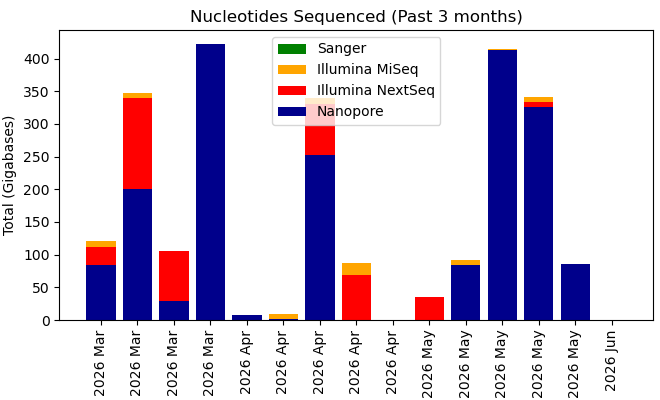
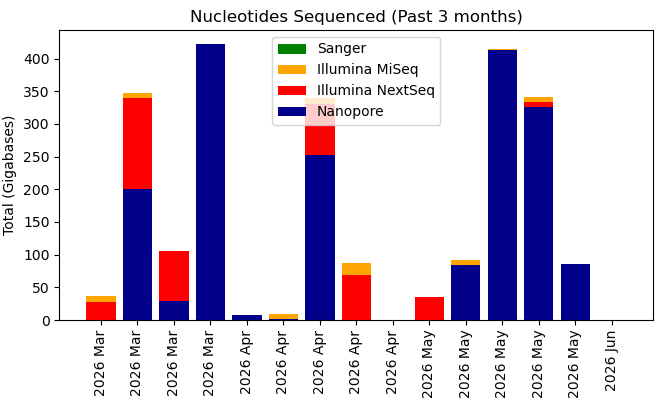
Your commit message here

Changed region(s): [[0.1212, 0.6, 0.1818, 0.81]]

diff --git a/krona/cgs.html b/krona/cgs.html
@@ -52,8 +52,8 @@ body {
   flex-direction: column;
 }
 </style>
-<H1>Genomics Facility Status: 07:00:09, 02/06/2026</H1>
-<marquee behavior="scroll" scrollamount="20" direction="left" bgcolor="lightgrey">GCCTGCAACGTACCTTCAAGAAGTCCTTTACCAGCTTTAGCCATAGCACCAGAAACAAAACTAGGGACGGCCTCATCAGGGTTAGGAACATTAGAGCCTTGAATGGCAGATTTAATACCAGCATCACCCATGCCTACAGTATTGTTATCGGTAGCAAGCACATCACCTTGAATGCCACCGGAGGCGGCTTTTTGACCGCCTCCAAACAATTTAGACATGGCGCCACCAGCAAGAGCAGAAGCAATACCGCC</marquee>
+<H1>Genomics Facility Status: 07:00:25, 03/06/2026</H1>
+<marquee behavior="scroll" scrollamount="20" direction="left" bgcolor="lightgrey">CCCTTCTGAATGTCACGCTGATTATTTTGACTTTGAGCGTATCGAGGCTCTTAAACCTGCTATTGAGGCTTGTGGCATTTCTACTCTTTCTCAATCCCCAATGCTTGGCTTCCATAAGCAGATGGATAACCGCATCAAGCTCTTGGAAGAGATTCTGTCTTTTCGTATGCAGGGCGTTGAGTTCGATAATGGTGATATGTATGTTGACGGCCATAAGGCTGCTTCTGACGTTCGTGATGAGTTTGTATCTG</marquee>
 <TABLE BORDER=0><TR><TD><TABLE class="styled-table"><H3>GigaBases Sequenced</H3>
-<TR><TD><b>Platform</b></TD><TD><b>Week</b></TD><TD><b>Month</b></TD><TD><b>Year</b></TD><TD><b>Total</b></TD></TR><TR><TD>Illumina MiSeq</TD><TD>0.0</TD><TD>16.38</TD><TD>354.96</TD><TD>567.8</TD></TR><TR><TD>Illumina NextSeq</TD><TD>0.0</TD><TD>43.22</TD><TD>3914.59</TD><TD>6653.75</TD></TR><TR><TD>Nanopore PromethION</TD><TD>85.54</TD><TD>908.32</TD><TD>8260.99</TD><TD>13041.0</TD></TR><TR><TD>Sanger</TD><TD>0.0</TD><TD>0.0</TD><TD>0.02</TD><TD>0.05</TD></TR></TABLE></TD><TD><IMG SRC="fig1.png"><IMG SRC="fig2.png"></TD></TR><TR><TD><H3>No. Samples (No. Experiments)</H3>
-<TABLE class="styled-table"><TR><TD><b>Platform</b></TD><TD><b>Week</b></TD><TD><b>Month</b></TD><TD><b>Year</b></TD><TD><b>Total</b></TD></TR><TR><TD>Illumina MiSeq</TD><TD>0 (0)</TD><TD>84 (3)</TD><TD>1430 (71)</TD><TD>2514 (101)</TD></TR><TR><TD>Illumina NextSeq</TD><TD>0 (0)</TD><TD>23 (3)</TD><TD>1256 (60)</TD><TD>2198 (89)</TD></TR><TR><TD>Nanopore PromethION</TD><TD>5 (3)</TD><TD>35 (18)</TD><TD>601 (203)</TD><TD>1025 (361)</TD></TR><TR><TD>Sanger</TD><TD>192 (192)</TD><TD>1632 (1632)</TD><TD>21019 (21019)</TD><TD>45858 (45858)</TD></TR></TABLE></TD><TD><IMG SRC="fig4.png"></TD></TR></TABLE></HTML>
+<TR><TD><b>Platform</b></TD><TD><b>Week</b></TD><TD><b>Month</b></TD><TD><b>Year</b></TD><TD><b>Total</b></TD></TR><TR><TD>Illumina MiSeq</TD><TD>0.0</TD><TD>16.38</TD><TD>354.96</TD><TD>567.8</TD></TR><TR><TD>Illumina NextSeq</TD><TD>0.0</TD><TD>7.41</TD><TD>3914.59</TD><TD>6653.75</TD></TR><TR><TD>Nanopore PromethION</TD><TD>85.54</TD><TD>908.32</TD><TD>8260.99</TD><TD>13041.0</TD></TR><TR><TD>Sanger</TD><TD>0.0</TD><TD>0.0</TD><TD>0.02</TD><TD>0.05</TD></TR></TABLE></TD><TD><IMG SRC="fig1.png"><IMG SRC="fig2.png"></TD></TR><TR><TD><H3>No. Samples (No. Experiments)</H3>
+<TABLE class="styled-table"><TR><TD><b>Platform</b></TD><TD><b>Week</b></TD><TD><b>Month</b></TD><TD><b>Year</b></TD><TD><b>Total</b></TD></TR><TR><TD>Illumina MiSeq</TD><TD>0 (0)</TD><TD>84 (3)</TD><TD>1430 (71)</TD><TD>2514 (101)</TD></TR><TR><TD>Illumina NextSeq</TD><TD>0 (0)</TD><TD>12 (2)</TD><TD>1256 (60)</TD><TD>2198 (89)</TD></TR><TR><TD>Nanopore PromethION</TD><TD>5 (3)</TD><TD>35 (18)</TD><TD>601 (203)</TD><TD>1025 (361)</TD></TR><TR><TD>Sanger</TD><TD>288 (288)</TD><TD>1632 (1632)</TD><TD>21115 (21115)</TD><TD>45954 (45954)</TD></TR></TABLE></TD><TD><IMG SRC="fig4.png"></TD></TR></TABLE></HTML>
